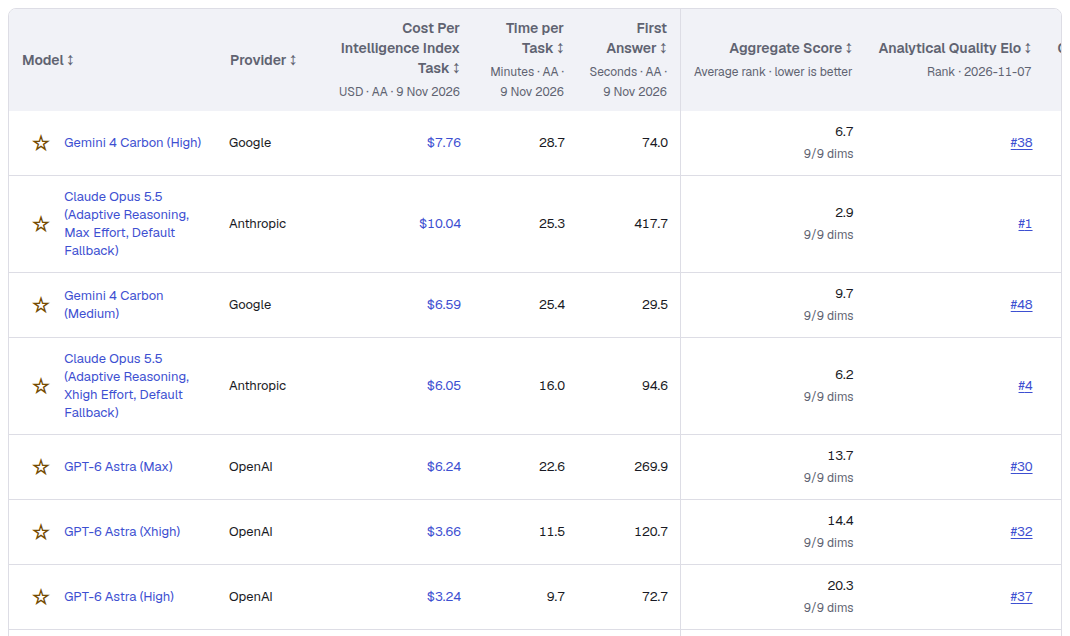
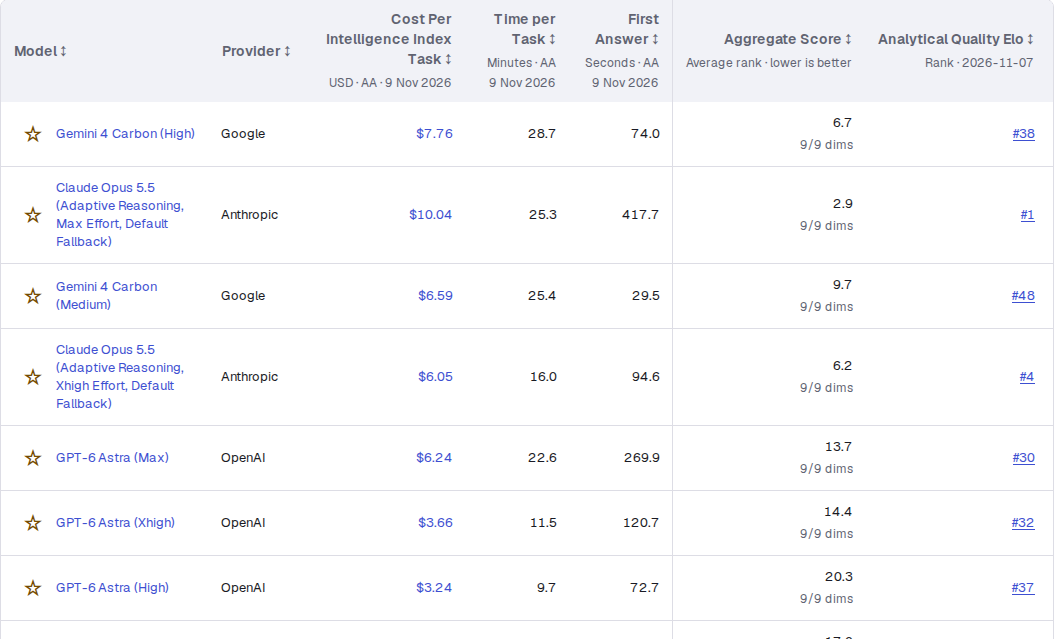
fix: phase 1 review fixes for speed columns
- Match AA's named-fallback speed record "Claude Fable 5 (Max, Opus 4.8
  Fallback)" to the sheet's adaptive-reasoning spelling, so its First Answer
  (97.3 s) no longer shows a dash. masterIdentityKey stays unchanged so saved
  favorites keep their keys. Unit test fails before, passes after.
- Master speed headers: unit and date on their own lines with no dangling
  separator (matches evaluation pages), and a no-break space keeps the sort
  arrow on the label's last line at 768-1023px.
- .table-scroll contains the sr-only caption: it escaped .app-main and made
  the master page 158px taller below 1024px, so the top bar scrolled away and
  the pinned table header floated below a gap. Browser check now asserts no
  vertical page scroll at 390/768/1024/1440.
- Reshot master frames; 1.5 global tables match data/aa-model-speed.json.

diff --git a/src/components/master-leaderboard.tsx b/src/components/master-leaderboard.tsx
@@ -30,9 +30,9 @@ function speedValue(seconds:number|null|undefined,format:(seconds:number|null|un
   return value==="—"?<span className="muted">—</span>:<>{value}{unit?` ${unit}`:""}</>;
 }
 
-// Speed headers are narrow: break the detail line only before the date.
+// Speed headers are narrow: the unit and the date sit on their own lines, like the evaluation pages.
 function speedDetail(unit:string,date:string){
-  return <><span className="master-header-part">{unit} · AA ·</span> <span className="master-header-part">{date}</span></>;
+  return <><span className="master-header-part">{unit} · AA</span><span className="master-header-part">{date}</span></>;
 }
 
 function MasterCard({row,favorite,orderedEvaluations,sortedEvaluation,onToggleFavorite}:{row:MasterTableRow;favorite:boolean;orderedEvaluations:Evaluation[];sortedEvaluation?:Evaluation;onToggleFavorite:(identity:string)=>void}){
@@ -110,7 +110,7 @@ export default function MasterLeaderboard({rows,evaluations,costCapturedLabel,sp
     window.setTimeout(()=>URL.revokeObjectURL(url),0);
   },[sorted,orderedEvaluations]);
   const header=(key:string,label:string,sticky?:string)=><th scope="col" className={sticky??"numeric"} aria-sort={sort===key?(direction==="asc"?"ascending":"descending"):"none"}><Button variant="quiet" size="compact" onClick={()=>update({ms:key,md:sort===key&&direction==="asc"?"desc":"asc"})}>{label} {sort===key?(direction==="asc"?"↑":"↓"):"↕"}</Button></th>;
-  const metricHeader=(key:string,className:string,label:string,detail:ReactNode,title:string)=><th scope="col" className={`numeric ${className}`} aria-sort={sort===key?(direction==="asc"?"ascending":"descending"):"none"}><Button variant="quiet" size="compact" title={title} onClick={()=>update({ms:key,md:sort===key&&direction==="asc"?"desc":"asc"})}>{label} {sort===key?(direction==="asc"?"↑":"↓"):"↕"}<small>{detail}</small></Button></th>;
+  const metricHeader=(key:string,className:string,label:string,detail:ReactNode,title:string)=><th scope="col" className={`numeric ${className}`} aria-sort={sort===key?(direction==="asc"?"ascending":"descending"):"none"}><Button variant="quiet" size="compact" title={title} onClick={()=>update({ms:key,md:sort===key&&direction==="asc"?"desc":"asc"})}>{label}{"\u00a0"}{sort===key?(direction==="asc"?"↑":"↓"):"↕"}<small>{detail}</small></Button></th>;
   // Filter controls render twice: inline in the toolbar on tablet and desktop, and inside the mobile Filters drawer. Only one copy is visible at a time; the drawer copy uses its own IDs.
   const filterControls=(idPrefix:string,variant:"toolbar"|"drawer")=><>
       <label className="sr-only" htmlFor={`${idPrefix}master-provider`}>Master provider</label>

diff --git a/tests/model-speed.test.ts b/tests/model-speed.test.ts
@@ -15,7 +15,7 @@ import {
 import {
   evaluationSpeedSlugs, formatFirstAnswer, formatTimePerTask, getModelSpeed,
   getModelSpeedMap, modelSpeedCapturedAt, modelSpeedCount, modelSpeedEvaluationSlugs,
-  modelSpeedsForEntries, type ModelSpeed,
+  modelSpeedNameAliases, modelSpeedsForEntries, type ModelSpeed,
 } from "../src/lib/model-speed";
 
 const dataset = JSON.parse(await readFile(new URL("../data/leaderboards.json", import.meta.url), "utf8")) as Dataset;
@@ -60,6 +60,14 @@ test("importer keeps task-only, first-answer-only, evaluation-only and zero valu
   assert.ok(!speeds.records.some(record => record.slug === "invalid" || record.slug === "cost-only"));
   assert.match(stdout, /Saved 1 costs from 7 Artificial Analysis models/);
   assert.match(stdout, /Saved 5 speed records.*2 task times, 2 first answers, 1 models with evaluation times/);
+});
+
+test("speed lookup matches AA's named fallback to the sheet's adaptive-reasoning spelling", () => {
+  const fable = getModelSpeed("Anthropic", "Claude Fable 5 (Adaptive Reasoning, Max Effort, Opus 4.8 Fallback)");
+  assert.equal(fable?.slug, "claude-fable-5");
+  assert.equal(formatFirstAnswer(fable?.first_answer_s), "97.3");
+  assert.equal(getModelSpeed("Anthropic", "Claude Fable 5 (with fallback)"), null);
+  assert.deepEqual(modelSpeedNameAliases("Claude Opus 5.5 (High, Default Fallback)"), ["Claude Opus 5.5 (High, Default Fallback)"]);
 });
 
 test("speed lookup matches cost identity rules, exact effort variants and unique model fallback", () => {

diff --git a/src/lib/model-speed.ts b/src/lib/model-speed.ts
@@ -28,9 +28,20 @@ function addUnique(map: Map<string, ModelSpeed | null>, key: string, speed: Mode
   else if (previous && previous.slug !== speed.slug) map.set(key, null);
 }
 
+// AA writes a named fallback as "(Max, Opus 4.8 Fallback)"; our sheets spell it
+// "(Adaptive Reasoning, Max Effort, Opus 4.8 Fallback)". Default fallbacks are already
+// matched by masterIdentityKey, which stays unchanged so saved favorites keep their keys.
+export function modelSpeedNameAliases(model: string): string[] {
+  const alias = model.replace(/\((max|xhigh|high|medium|low),\s*(?!default\b)([^,()\s][^,()]*?)\s+fallback\)/i,
+    (_, effort: string, fallback: string) => `(Adaptive Reasoning, ${effort} Effort, ${fallback} Fallback)`);
+  return alias === model ? [model] : [model, alias];
+}
+
 for (const record of records) {
-  addUnique(speedsByIdentity, masterIdentityKey(record.provider, record.model), record);
-  addUnique(speedsByModel, masterIdentityKey("", record.model), record);
+  for (const name of modelSpeedNameAliases(record.model)) {
+    addUnique(speedsByIdentity, masterIdentityKey(record.provider, name), record);
+    addUnique(speedsByModel, masterIdentityKey("", name), record);
+  }
 }
 
 export const modelSpeedCapturedAt = snapshot.captured_at;

diff --git a/src/app/globals.css b/src/app/globals.css
@@ -672,6 +672,8 @@ button.primary:active:not(:disabled) {
 }
 
 .table-scroll {
+  /* Contains the absolutely positioned sr-only caption, which otherwise escapes .app-main and lengthens the page. */
+  position: relative;
   max-width: 100%;
   overflow: auto;
   overscroll-behavior-inline: contain;
@@ -987,6 +989,7 @@ th.numeric {
 }
 
 .master-header-part {
+  display: block;
   white-space: nowrap;
 }
 

diff --git a/docs/IMPLEMENTATION_PLAN.md b/docs/IMPLEMENTATION_PLAN.md
@@ -48,5 +48,5 @@ No value is estimated. A missing value shows as a dash and sorts last.
 | 1.3 | **Evaluation pages** [look]. `src/components/leaderboard.tsx`, `src/lib/contract.ts` (sort enum `time_per_task`, `first_answer`), `src/app/leaderboards/[evaluationSlug]/page.tsx` (intro line), `src/app/about/data/` page and `README.md` (one line each). Read: Decisions above. **Done when** screenshots at 1440 and 390px show both columns on Terminal Bench (header "Time per task"), Analytical Quality Elo (AA-Briefcase time) and Finance and Accounting (header "Time per Intelligence Index task"); `?sort=time_per_task` and `?sort=first_answer` sort fastest first with dashes last; tsc and unit tests pass. | Sol xHigh | Copies the cost column's pattern; pass/fail checks | 2026-11-09 · fresh-eyes fixes; tests/tsc/build/browser pass; 1440/390 looked ([evidence](screenshots/speed-columns/evaluation-look.md)) |
 | 1.4 | **End-to-end check**. Extend `scripts/check-master-browser.mjs` to assert both master headers, the CSV columns and fastest-first sorting on each, and one evaluation page's two columns. Run it once against a production build (`next build`, `next start`), then stop the server by its PID. **Done when** it passes, or the failures are listed in this row for R1. | Sol xHigh | A pass/fail script | 2026-11-09 · single production-build browser run passes; both speed sorts cover 629 rows, missing last; phone sorts and Terminal Bench columns pass; server stopped by PID; 10 unit tests and tsc pass |
 | 1.5 | **Global model tables** [no look]. In `~/.claude/playbooks/plans-and-models.md`, add "Time / task" (min) and "First answer" (s) columns to the Claude table and the GPT table, copied from `data/aa-model-speed.json` (dash where AA has no row, e.g. Terra xHigh). Add one bullet under each table's notes: what the two measure, and that speed breaks ties only. Commit and push in the `~/.claude` repo. Read: that file's two tables and their notes only. **Done when** every row has both values or a dash, each traceable to a record in the JSON, and the final message lists any pick the speed numbers would change. | Haiku 5.5 Max | Exact copy from a given file | 2026-11-09 · ~/.claude `f9e8904`; 16 rows match the JSON |
-| R1 | **Phase 1 review** and its fixes: the diff from `main`, all screenshots from 1.2 and 1.3, the 1.4 result, the 1.5 table against the JSON. | Opus 5.5 High | Other family from most of the build | |
+| R1 | **Phase 1 review** and its fixes: the diff from `main`, all screenshots from 1.2 and 1.3, the 1.4 result, the 1.5 table against the JSON. | Opus 5.5 High | Other family from most of the build | 2026-11-09 · 4 fixed (Fable 5 Max speed match, master header detail and arrow wrap, page height under 1024px); 1.5 table matches; browser check passes |
 | O1 | *owner*: release with `git push origin speed-columns:main`, then open the master leaderboard on the live site at desktop and phone width. | — | — | |
